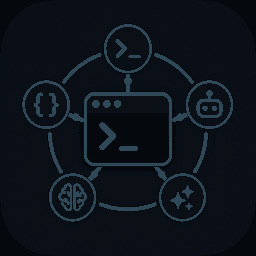
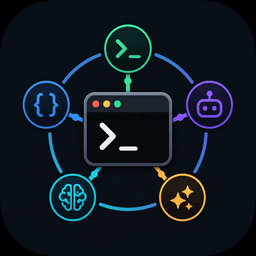
Add Gemini CLI support to Orchestrator
Register Gemini CLI with auth detection and a verified headless workflow. Expose its settings and status metadata, update the plugin contracts and tests, bump the plugin version, and replace the thumbnail.

diff --git a/plugins/_orchestrator/webui/config.html b/plugins/_orchestrator/webui/config.html
@@ -302,7 +302,7 @@
                   </div>
                 </div>
 
-                <div class="ta-field" x-show="agent.id === 'codex' || agent.id === 'claude' || agent.id === 'grok' || agent.id === 'hermes' || agent.id === 'opencode'">
+                <div class="ta-field" x-show="agent.id === 'codex' || agent.id === 'claude' || agent.id === 'gemini' || agent.id === 'grok' || agent.id === 'hermes' || agent.id === 'opencode'">
                   <div class="field-label">
                     <div class="field-title">Model</div>
                     <div class="field-description">Optional CLI model override.</div>

diff --git a/plugins/_orchestrator/helpers/adapters/gemini.py b/plugins/_orchestrator/helpers/adapters/gemini.py
@@ -1,0 +1,78 @@
+from __future__ import annotations
+
+import os
+from pathlib import Path
+from typing import Any
+
+from plugins._orchestrator.helpers.adapters.base import TerminalAgentAdapter
+
+
+_API_KEY_ENV_VARS = ("GEMINI_API_KEY", "GOOGLE_API_KEY")
+
+
+class GeminiCliAdapter(TerminalAgentAdapter):
+    id = "gemini"
+    title = "Gemini CLI"
+    binary = "gemini"
+    install_hint = "npm install -g @google/gemini-cli"
+    description = "Google Gemini CLI in headless single-prompt mode."
+
+    def _home(self) -> Path:
+        configured = os.environ.get("GEMINI_CLI_HOME", "").strip()
+        root = Path(configured).expanduser() if configured else Path.home()
+        return root / ".gemini"
+
+    def auth_status(self, config: dict[str, Any] | None = None) -> dict[str, Any]:
+        env_var = next((name for name in _API_KEY_ENV_VARS if os.environ.get(name)), "")
+        if env_var:
+            return {"connected": True, "mode": "env", "auth_path": env_var}
+
+        credentials = os.environ.get("GOOGLE_APPLICATION_CREDENTIALS", "").strip()
+        if credentials and _nonempty_file(Path(credentials).expanduser()):
+            return {
+                "connected": True,
+                "mode": "env",
+                "auth_path": "GOOGLE_APPLICATION_CREDENTIALS",
+            }
+
+        home = self._home()
+        for path in (home / "gemini-credentials.json", home / "oauth_creds.json"):
+            if _nonempty_file(path):
+                return {"connected": True, "mode": "external", "auth_path": str(path)}
+
+        if _env_file_has_key(home / ".env"):
+            return {"connected": True, "mode": "external", "auth_path": str(home / ".env")}
+
+        adc = _adc_path()
+        if _nonempty_file(adc):
+            return {"connected": True, "mode": "external", "auth_path": str(adc)}
+
+        return {"connected": False, "mode": "", "auth_path": str(home)}
+
+
+def _adc_path() -> Path:
+    configured = os.environ.get("CLOUDSDK_CONFIG", "").strip()
+    root = Path(configured).expanduser() if configured else Path.home() / ".config" / "gcloud"
+    return root / "application_default_credentials.json"
+
+
+def _nonempty_file(path: Path) -> bool:
+    try:
+        return path.is_file() and path.stat().st_size > 0
+    except OSError:
+        return False
+
+
+def _env_file_has_key(path: Path) -> bool:
+    try:
+        lines = path.read_text(encoding="utf-8", errors="ignore").splitlines()
+    except OSError:
+        return False
+    for line in lines:
+        raw = line.strip()
+        if not raw or raw.startswith("#") or "=" not in raw:
+            continue
+        key, value = raw.split("=", 1)
+        if key.strip() in _API_KEY_ENV_VARS and value.strip().strip("'\""):
+            return True
+    return False

diff --git a/plugins/_orchestrator/tests/test_status_adapters.py b/plugins/_orchestrator/tests/test_status_adapters.py
@@ -9,6 +9,8 @@ repo_root = next(
 sys.path.insert(0, str(repo_root))
 
 from plugins._orchestrator.helpers.adapters.cursor import CursorCliAdapter
+from plugins._orchestrator.helpers.adapters.gemini import _env_file_has_key
+from plugins._orchestrator.helpers.adapters.gemini import GeminiCliAdapter
 from plugins._orchestrator.helpers.adapters.grok import _toml_has_secret
 from plugins._orchestrator.helpers.adapters.grok import GrokBuildAdapter
 from plugins._orchestrator.helpers.adapters.base import TerminalAgentAdapter
@@ -41,6 +43,7 @@ def test_registry_order_puts_a0_first():
         "codex",
         "claude",
         "cursor",
+        "gemini",
         "grok",
         "hermes",
         "opencode",
@@ -100,6 +103,23 @@ def test_cursor_detects_agent_zero_cursor_env_key():
             os.environ["API_KEY_CURSOR"] = old_a0_cursor
 
 
+def test_gemini_detects_supported_auth_sources():
+    old_value = os.environ.get("GEMINI_API_KEY")
+    try:
+        os.environ["GEMINI_API_KEY"] = "secret"
+        assert GeminiCliAdapter().auth_status()["auth_path"] == "GEMINI_API_KEY"
+    finally:
+        if old_value is None:
+            os.environ.pop("GEMINI_API_KEY", None)
+        else:
+            os.environ["GEMINI_API_KEY"] = old_value
+
+    with tempfile.TemporaryDirectory() as tmp:
+        env_path = Path(tmp) / ".env"
+        env_path.write_text('GEMINI_API_KEY="secret"\n')
+        assert _env_file_has_key(env_path)
+
+
 def test_grok_env_key_requires_present_environment_value():
     old_value = os.environ.pop("GROK_TEST_KEY", None)
     try:
@@ -136,6 +156,7 @@ def test_skill_documents_human_setup_loop_and_a0_exception():
     codex_text = (references / "codex.md").read_text()
     claude_text = (references / "claude.md").read_text()
     cursor_text = (references / "cursor.md").read_text()
+    gemini_text = (references / "gemini.md").read_text()
     grok_text = (references / "grok.md").read_text()
     hermes_text = (references / "hermes.md").read_text()
     opencode_text = (references / "opencode.md").read_text()
@@ -168,6 +189,7 @@ def test_skill_documents_human_setup_loop_and_a0_exception():
     assert "references/codex.md" in skill_text
     assert "references/claude.md" in skill_text
     assert "references/cursor.md" in skill_text
+    assert "references/gemini.md" in skill_text
     assert "references/grok.md" in skill_text
     assert "references/hermes.md" in skill_text
     assert "references/opencode.md" in skill_text
@@ -203,6 +225,14 @@ def test_skill_documents_human_setup_loop_and_a0_exception():
     assert "agent status" in cursor_text
     assert "not with an invented flag" in cursor_text
 
+    assert 'gemini -p "Respond exactly: TERMINAL_AGENT_SMOKE_OK"' in gemini_text
+    assert "--output-format json" in gemini_text
+    assert "--approval-mode=yolo" in gemini_text
+    assert "--skip-trust" in gemini_text
+    assert "GEMINI_API_KEY" in gemini_text
+    assert "GOOGLE_APPLICATION_CREDENTIALS" in gemini_text
+    assert "Do not start bare `gemini`" in gemini_text
+
     assert "grok --no-auto-update --cwd \"$WORKDIR\" -p" in grok_text
     assert "--output-format json" in grok_text
     assert "--always-approve" in grok_text
@@ -224,6 +254,7 @@ if __name__ == "__main__":
     test_claude_defaults_skip_permissions()
     test_cursor_defaults_headless_automation()
     test_cursor_detects_agent_zero_cursor_env_key()
+    test_gemini_detects_supported_auth_sources()
     test_grok_defaults_headless_automation()
     test_grok_env_key_requires_present_environment_value()
     test_grok_detects_agent_zero_xai_env_key()

diff --git a/plugins/_orchestrator/helpers/registry.py b/plugins/_orchestrator/helpers/registry.py
@@ -7,6 +7,7 @@ from plugins._orchestrator.helpers.adapters.base import TerminalAgentAdapter
 from plugins._orchestrator.helpers.adapters.claude import ClaudeCodeAdapter
 from plugins._orchestrator.helpers.adapters.codex import CodexAdapter
 from plugins._orchestrator.helpers.adapters.cursor import CursorCliAdapter
+from plugins._orchestrator.helpers.adapters.gemini import GeminiCliAdapter
 from plugins._orchestrator.helpers.adapters.grok import GrokBuildAdapter
 from plugins._orchestrator.helpers.adapters.hermes import HermesAgentAdapter
 from plugins._orchestrator.helpers.adapters.opencode import OpenCodeAdapter
@@ -19,6 +20,7 @@ _ADAPTERS: dict[str, TerminalAgentAdapter] = {
         CodexAdapter(),
         ClaudeCodeAdapter(),
         CursorCliAdapter(),
+        GeminiCliAdapter(),
         GrokBuildAdapter(),
         HermesAgentAdapter(),
         OpenCodeAdapter(),

diff --git a/plugins/_orchestrator/skills/orchestrator/references/gemini.md b/plugins/_orchestrator/skills/orchestrator/references/gemini.md
@@ -1,0 +1,41 @@
+# Gemini CLI
+
+Use Gemini CLI for headless Google Gemini coding tasks. Always pass `-p`; bare `gemini` opens the interactive TUI.
+
+## Install And Probe
+
+```bash
+command -v gemini >/dev/null || npm install -g @google/gemini-cli
+gemini --version
+gemini --help
+```
+
+## Smoke Prompt
+
+```bash
+cd "$WORKDIR"
+gemini -p "Respond exactly: TERMINAL_AGENT_SMOKE_OK" --output-format json --approval-mode=yolo --skip-trust
+```
+
+## Login
+
+Headless mode uses existing cached Google credentials, a Gemini API key, or Vertex AI credentials. Do not start bare `gemini` through Agent Zero for login; it opens a TUI. For local browser sign-in, ask the user to run `gemini` in their own terminal, select **Sign in with Google**, finish in the browser, and then retry the smoke prompt.
+
+For container automation, prefer `GEMINI_API_KEY`. Ask the user to add it through **Settings > External Services > Secrets Management**, then source `/a0/usr/.env` without printing it:
+
+```bash
+set -a
+. /a0/usr/.env
+set +a
+```
+
+Vertex AI may instead use `GOOGLE_API_KEY`, `GOOGLE_APPLICATION_CREDENTIALS`, or cached Application Default Credentials. It also requires `GOOGLE_CLOUD_PROJECT` and `GOOGLE_CLOUD_LOCATION`. Never ask the user to paste keys or service-account JSON into chat.
+
+## Real Task
+
+```bash
+cd "$WORKDIR"
+gemini -p "$TASK" --output-format json --approval-mode=yolo --skip-trust
+```
+
+Add `-m "$MODEL"` only when the user or settings provide a model override. Use `--approval-mode=plan` instead of `yolo` when the user explicitly asks for read-only analysis.

diff --git a/plugins/_orchestrator/skills/orchestrator/SKILL.md b/plugins/_orchestrator/skills/orchestrator/SKILL.md
@@ -1,6 +1,6 @@
 ---
 name: orchestrator
-description: Use when delegating coding or repository work to external terminal coding agents such as the user's host Claude Code/Codex/Cursor CLI or container-installed pal agents.
+description: Use when delegating coding or repository work to external terminal coding agents such as the user's host Claude Code/Codex/Cursor/Gemini CLI or container-installed pal agents.
 triggers:
   - "terminal agent"
   - "external coding agent"
@@ -8,6 +8,7 @@ triggers:
   - "delegate to claude code"
   - "delegate to cursor"
   - "delegate to cursor cli"
+  - "delegate to gemini cli"
   - "delegate to grok build"
   - "delegate to a0 headless"
   - "delegate to hermes"
@@ -27,12 +28,12 @@ Prefer the user's own host-machine CLI when that is what they mean. Container-in
 
 ## Rules
 
-- For Codex, Claude Code, Cursor CLI, Grok Build, Hermes Agent, and OpenCode, first decide the execution place: the user's local machine through A0 CLI, or the Agent Zero Docker/container shell.
+- For Codex, Claude Code, Cursor CLI, Gemini CLI, Grok Build, Hermes Agent, and OpenCode, first decide the execution place: the user's local machine through A0 CLI, or the Agent Zero Docker/container shell.
 - If the user did not specify local/host versus container, check memory for this coding agent's execution-place preference. If no current preference is known, ask: "Do you want me to use your own local <agent> through A0 CLI, or the <agent> installed inside the Agent Zero container?"
 - After the user chooses, save a stable per-agent preference with `memory_save`, for example: "For orchestrator, the user prefers Claude Code to run on the host machine through A0 CLI by default." If memory tools are unavailable, continue without saving.
 - Never use Computer Use to drive coding-agent terminals, menus, or TUIs. Use headless CLI commands through `code_execution_remote` or `code_execution_tool`; if that is not possible, stop and ask.
 - ACP may be available as a community plugin, but do not assume it is installed. Mention it only if the user explicitly asks for ACP or the direct CLI path is unsuitable.
-- For Codex, Claude Code, Cursor CLI, Grok Build, Hermes Agent, and OpenCode, setup is part of the workflow: check whether the CLI is installed, install only the requested CLI if missing, probe its version/help, run a tiny smoke prompt, then run the real task.
+- For Codex, Claude Code, Cursor CLI, Gemini CLI, Grok Build, Hermes Agent, and OpenCode, setup is part of the workflow: check whether the CLI is installed, install only the requested CLI if missing, probe its version/help, run a tiny smoke prompt, then run the real task.
 - Keep authentication human-in-the-loop. You may start the CLI login/setup command, relay the exact URL, device code, browser step, or prompt to the user, then wait for the user to confirm completion before retrying the smoke prompt.
 - Never start a full-screen CLI/TUI as a login fallback. If you accidentally opened one and see welcome, theme, provider, or unreadable menu output, reset the terminal session instead of sending keys into it.
 - If login/setup shows a menu or provider choices, show those choices to the user in chat and ask which one to select. Keep the terminal session open, then send the user's selected number/key back to that session.
@@ -45,7 +46,7 @@ Prefer the user's own host-machine CLI when that is what they mean. Container-in
 
 ## Host CLI Flow
 
-Use this when the user wants their own local Claude Code, Codex, Cursor CLI, Grok Build, Hermes Agent, or OpenCode.
+Use this when the user wants their own local Claude Code, Codex, Cursor CLI, Gemini CLI, Grok Build, Hermes Agent, or OpenCode.
 
 1. Use `code_execution_remote`, not `code_execution_tool`, because paths, shell, login, and installed CLIs belong to the A0 CLI host machine.
 2. If `code_execution_remote` is unavailable or reports no connected CLI / remote execution disabled, tell the user exactly:
@@ -98,6 +99,7 @@ You can consult both host and container agents in one workflow. Keep their shell
 - Codex CLI: `references/codex.md`
 - Claude Code: `references/claude.md`
 - Cursor CLI: `references/cursor.md`
+- Gemini CLI: `references/gemini.md`
 - Grok Build: `references/grok.md`
 - Hermes Agent: `references/hermes.md`
 - OpenCode: `references/opencode.md`

diff --git a/plugins/_orchestrator/README.md b/plugins/_orchestrator/README.md
@@ -10,7 +10,7 @@ The plugin provides:
 - a Settings > External Services status screen for configured binaries and
   detected auth state;
 - adapter metadata for Agent Zero headless, OpenAI Codex CLI, Claude Code,
-  Cursor CLI, Grok Build, Hermes Agent, OpenCode, and future terminal agents.
+  Cursor CLI, Gemini CLI, Grok Build, Hermes Agent, OpenCode, and future terminal agents.
 
 There is intentionally no `terminal_agent` tool and no settings-screen install
 button. When the user explicitly asks for a terminal agent, the skill first
@@ -30,6 +30,7 @@ Docker runtime.
 | OpenAI Codex | `codex` | ChatGPT device login from settings or external CLI login |
 | Claude Code | `claude` | External `claude` login or `ANTHROPIC_API_KEY` |
 | Cursor CLI | `agent` | `CURSOR_API_KEY`, `NO_OPEN_BROWSER=1 agent login`, or cached Cursor login |
+| Gemini CLI | `gemini` | Cached Google login, `GEMINI_API_KEY`, or Vertex AI credentials |
 | Grok Build | `grok` | `XAI_API_KEY`, `grok login --device-auth`, or cached Grok login |
 | Hermes Agent | `hermes` | External Hermes/provider setup, `~/.hermes/.env`, `~/.hermes/auth.json`, or provider env vars |
 | OpenCode | `opencode` | External `opencode auth login`, provider env vars, or `~/.local/share/opencode/auth.json` |
@@ -152,6 +153,9 @@ cursor:
   binary: agent
   output_format: text
   force: true
+gemini:
+  binary: gemini
+  model: ""
 grok:
   binary: grok
   model: ""

diff --git a/plugins/_orchestrator/helpers/adapters/AGENTS.md b/plugins/_orchestrator/helpers/adapters/AGENTS.md
@@ -7,7 +7,7 @@
 
 ## Ownership
 
-- Owns `base.py` plus adapter modules for A0 Headless, Codex CLI, Claude Code, Cursor CLI, Grok Build, Hermes Agent, OpenCode, and future status adapters.
+- Owns `base.py` plus adapter modules for A0 Headless, Codex CLI, Claude Code, Cursor CLI, Gemini CLI, Grok Build, Hermes Agent, OpenCode, and future status adapters.
 - Owns credential-path detection and safe disconnect behavior only when the adapter can identify the exact credential store.
 
 ## Local Contracts
@@ -42,6 +42,9 @@
   - Treat `XAI_API_KEY` as environment auth.
   - Detect `~/.grok/config.toml`, `~/.grok/auth.json`, and `~/.grok/auth/` without returning secret contents.
   - Do not model the full-screen TUI as a status API flow.
+- Gemini CLI:
+  - Detect `GEMINI_API_KEY`, `GOOGLE_API_KEY`, service-account/ADC files, and current or legacy Gemini credential files without returning secret contents.
+  - Do not model Gemini's interactive sign-in TUI as a status API flow.
 - Hermes Agent and OpenCode:
   - Detect known provider environment variables and known auth files.
   - Secret detection should answer yes/no without returning secret values.

diff --git a/plugins/_orchestrator/AGENTS.md b/plugins/_orchestrator/AGENTS.md
@@ -4,7 +4,7 @@
 
 - Provide a bundled Agent Zero plugin for delegating repository and coding work to external terminal/headless agents.
 - Keep heavy delegation instructions out of the always-loaded prompt by exposing the `orchestrator` skill instead of a `terminal_agent` tool.
-- Own adapter status metadata, settings UI, Codex device login APIs, and skill instructions for Agent Zero headless, Codex CLI, Claude Code, Cursor CLI, Grok Build, Hermes Agent, OpenCode, and future terminal agents.
+- Own adapter status metadata, settings UI, Codex device login APIs, and skill instructions for Agent Zero headless, Codex CLI, Claude Code, Cursor CLI, Gemini CLI, Grok Build, Hermes Agent, OpenCode, and future terminal agents.
 
 ## Ownership
 

diff --git a/plugins/_orchestrator/skills/orchestrator/AGENTS.md b/plugins/_orchestrator/skills/orchestrator/AGENTS.md
@@ -4,7 +4,7 @@
 
 - Teach Agent Zero how to delegate work to external terminal/headless coding agents only after the skill is loaded.
 - Keep generic orchestration rules in `SKILL.md` and agent-specific command runbooks in `references/`.
-- Provide copy-ready command patterns for A0 Headless, Codex CLI, Claude Code, Cursor CLI, Grok Build, Hermes Agent, and OpenCode through reference files.
+- Provide copy-ready command patterns for A0 Headless, Codex CLI, Claude Code, Cursor CLI, Gemini CLI, Grok Build, Hermes Agent, and OpenCode through reference files.
 
 ## Ownership
 

diff --git a/plugins/_orchestrator/skills/orchestrator/references/AGENTS.md b/plugins/_orchestrator/skills/orchestrator/references/AGENTS.md
@@ -7,7 +7,7 @@
 
 ## Ownership
 
-- Owns one markdown file per agent id, currently `a0.md`, `codex.md`, `claude.md`, `cursor.md`, `grok.md`, `hermes.md`, and `opencode.md`.
+- Owns one markdown file per agent id, currently `a0.md`, `codex.md`, `claude.md`, `cursor.md`, `gemini.md`, `grok.md`, `hermes.md`, and `opencode.md`.
 - Does not own adapter status code, settings UI, or global orchestration rules.
 
 ## Local Contracts